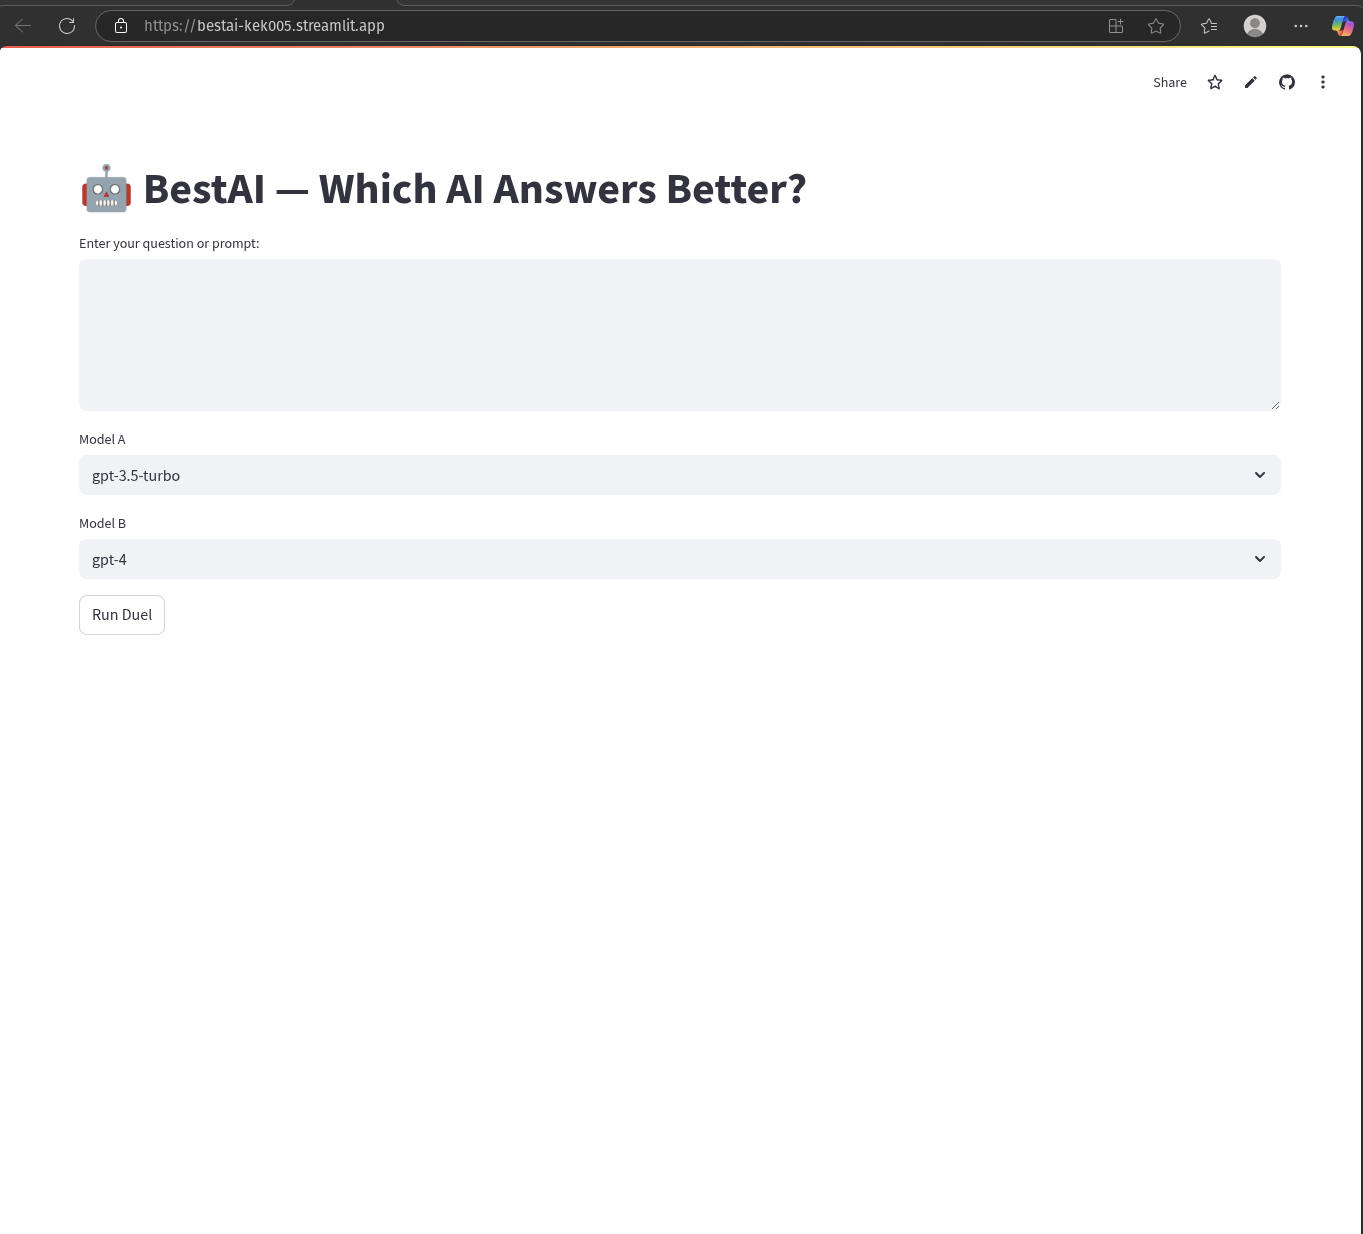
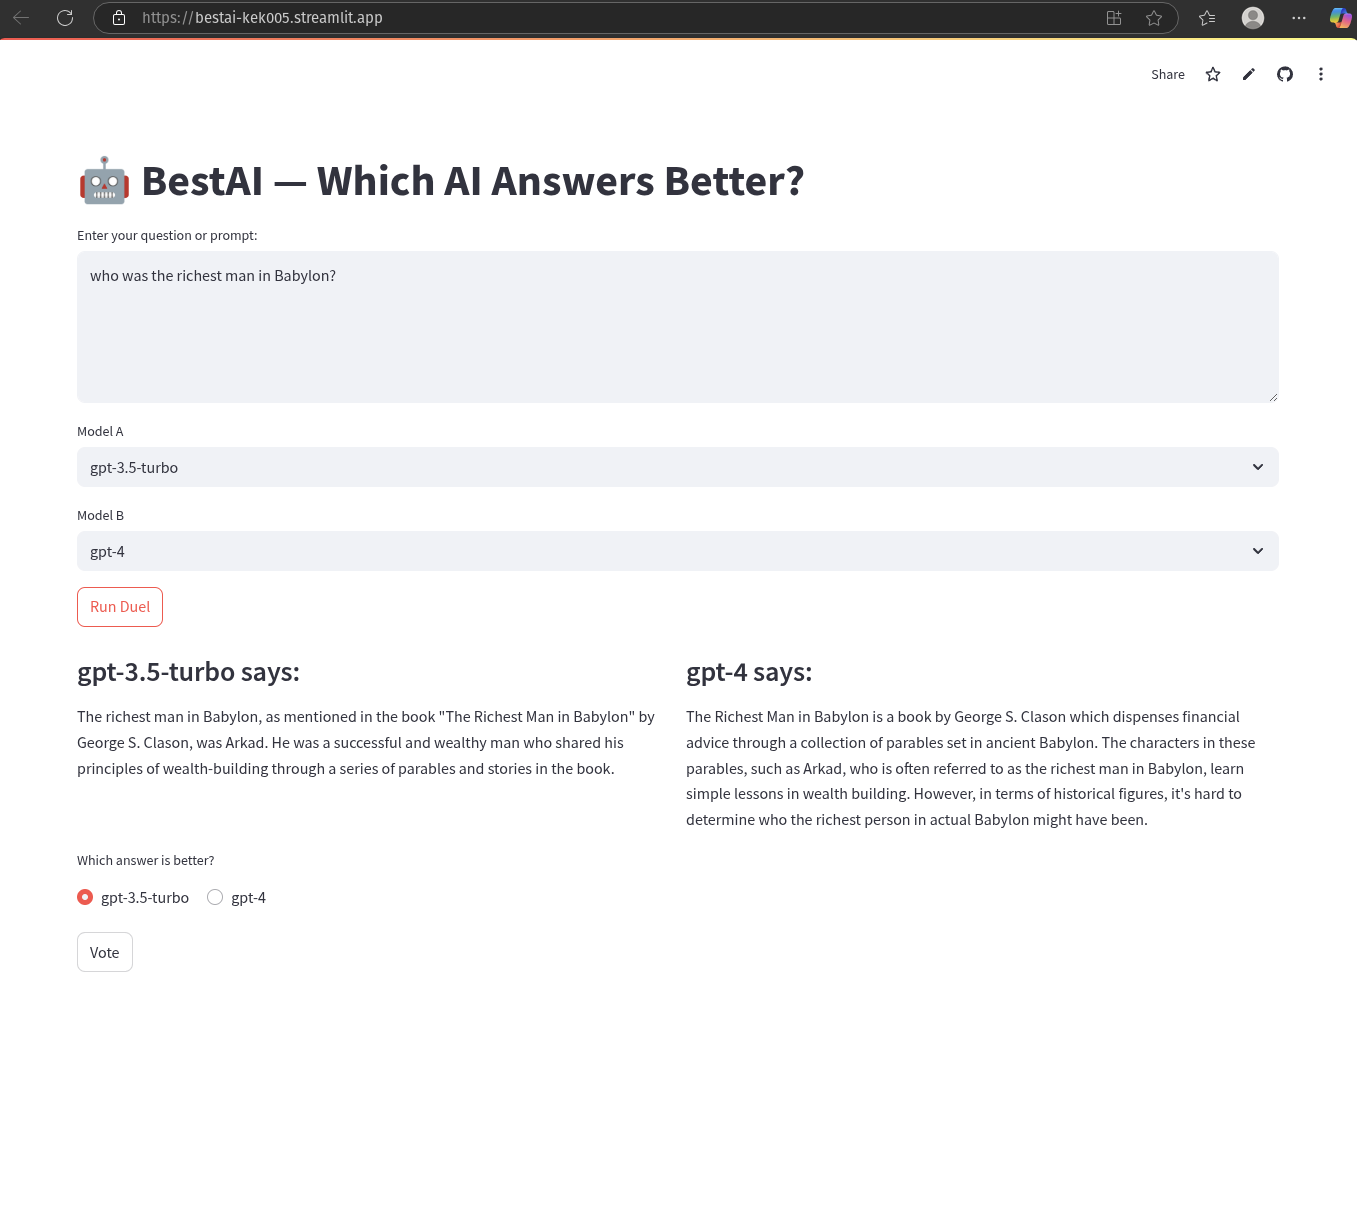
usage limite set

diff --git a/app.py b/app.py
@@ -2,11 +2,25 @@
 import streamlit as st
 from llm_wrappers import get_response_openai
 
+# Set a max API usage per session
+MAX_USES = 5
+
+# Initialize call counter
+if "api_uses" not in st.session_state:
+    st.session_state.api_uses = 0
+
+# Check limit
+if st.session_state.api_uses >= MAX_USES:
+    st.warning("⚠ You’ve reached your usage limit for this session.")
+    st.stop()
+
 st.set_page_config(page_title="BestAI", layout="wide")
 st.title("🤖 BestAI — Which AI Answers Better?")
 
 # Prompt input
 prompt = st.text_area("Enter your question or prompt:", height=150)
+
+st.info(f"🧠 You have {MAX_USES - st.session_state.api_uses} uses remaining in this session.")
 
 # Model selection (we'll start with GPT-3.5 vs GPT-4)
 model_options = ["gpt-3.5-turbo", "gpt-4"]
@@ -20,6 +34,9 @@ if st.button("Run Duel"):
         with st.spinner("Thinking..."):
             response1 = get_response_openai(prompt, model1)
             response2 = get_response_openai(prompt, model2)
+
+            # Count this usage
+            st.session_state.api_uses += 1
 
         # Display responses side-by-side
         col1, col2 = st.columns(2)
